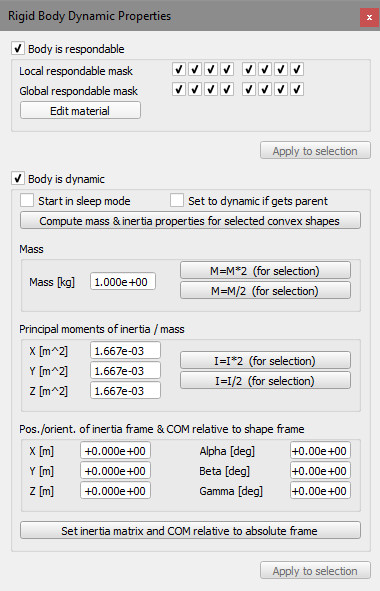
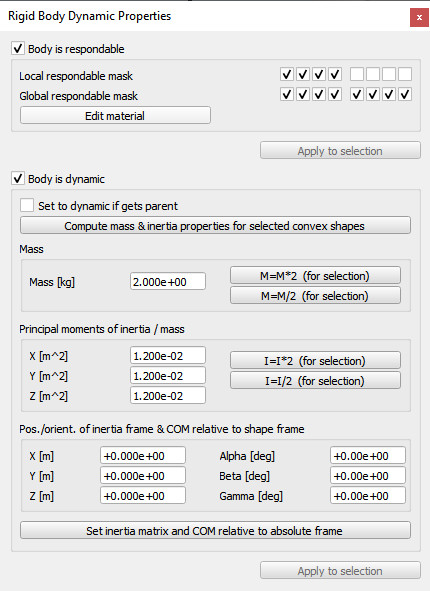
removed 'start in sleep mode', acknowledgments, etc.

diff --git a/en/acknowledgments.htm b/en/acknowledgments.htm
@@ -137,7 +137,7 @@ Eric Rohmer who is a thorough CoppeliaSim tester and an &quot;idea machine&quot;
 <li>Emanuel Eichhammer, for his <a href="http://www.customplot.com">QCustomPlot</a> used in the <a href="customUIPlugin.htm">custom UI plugin</a>. <a href="#qcustomplot">See the license</a>.</li>
 <li>Benjamin Navarro, for his code in the legacy remote API, which enables shared memory communication instead of socket communication.</li>
 
-<li>Following people for noticing bugs, reporting problems, suggesting solutions or new ideas, providing patches, code improvements, or simply helping out: Guillermo Presti, Matthias Fueller, Paul Fudal, Matthieu Lapeyre, Alberto Fanjul, Laurens Philippo, Vadim Liventsev, Kirill Makukhin, Patrick Bouffard, Pouya Mohammadi, Luca Marchionni, Barrett Ames, Arnaud Leleve, Geerten Doornenbal, Nikolaus Wittenstein, Ayberk Ozgur, Qi Wang, Giordano, Karl Robillard, Brian Yeomans, Kiyoshi Irie, Ulrich Schwesinger, Peter Mačička, Inkyu Sa, David Butterworth, Marco Cognetti, Xinyu Zhang, Jaqueline Gallardo, Serkan ÇİÇEK, Taehoon Koo, He Tao, Yusuke Ishizawa, Billy Newman, Rüdiger Dehmel, Roberto Marino, Renaud Detry, Roband, Hendrik Wiese, Matthias Schindler, George Moustris, Marco Bellaccini, Klaus Raizer, Paulo Gurgel, Stéphane Magnenat, Philipp Krüsi, Pascal Gohl, Gianpaolo Gonnelli, Felix Herrmann, Edgar Virga, Josep Tormo Costa, Gaël Ecorchard, Massimo Cefalo, Robert Lang, Marc Durvaux, Alexander Rietzler, Matt Derry, Arne Hitzmann, Sergi Foix, Daniel Morberg, Andreas Kuhner, Gerold Huber, Danilo Vasconcellos Vargas, Spencer Krause, Daniel Kuhner, Filip Jares, Luigi Ferri, Michaela Richter, Daniel Lechner, Sven Knüppel, Steve Nguyen, Jonas Sperling, Roberto Guzman, James Besancon, Andrew Vardy, Bipeen Acharya, Fred Gisa, Simon D. Levy, Leopoldo Armesto, Rodrigo Moreno Garcia, Hanna Kurniawati, Dimitri Klimenko, Joshua Mun Song,  Vinay Yadav, Thomas Estier, Matthias Imle, Rosé Rosado, Soner Ulun, Reza Mahjourian, Ben Allan, Riccardo Spica,  Giovanni Claudio, Guenter Schreiber, Antoine Rennuit, Francois Conti, Sébastien Granges, Patrick Helmer, Eva Alves Costa, Lucian Cucu, Sigurd Villumsen, Andrea Censi, Pierre Rouanet, Leander Hille, Christoph Hügle, William Harrison, Scott Drew Pendleton, Jan Dentler, Raimund Krenmüller, Anuraj Rajendraprakash, Ilya Nemihin, Ángel Luis Jiménez García, Leander Hille, Pierre Rouanet, Kenichi Hara, Ilya Nemihin, Federico Ferri, Michael Michalik, Martin Pecka, Nicola Piccinelli, Kshitij Tiwari, Victor Gomez, Parker Owan, Yuki Suga, Muhammad Umer Huzaifa, Marshall Floyd, Augusto Gandia, Pierre Jacquot, Gurvan Le Bleis, Andreu Vidal, Nicola Di Pol, Tobias Groll, Wu Xiaojun, Karol Mocniak, Ana Lucia, Ricardo Azambuja, Anto Ronson, Graeme Neff Wilson, Minson Lee, Tiago Malheiro, Andrew Hundt, Ahmed Yacine, Matthias Ploner, Indranil Sur, Sung Kyun Kim, Rik Timmers, Matthew Veres, Korolyov Alexei, Daniel Angelov, Mohammed Talha, Bartolomeo Della Corte, Scott Hissam, Mark Fink, Hao Wang, Matias Nitsche, Ndivhuwo Makondo, Yu Zhang, DeKita G. Moon, Paul Santiago Tumbaco Casa, Tobias Benz, Rodrigo Moreno Garcia, Arjun Narayanan, Sven Schweigler, Nicola Battilani, Mark Edmonds,  Benno Timmermann, Cándido Otero Moreira, Justin Yim, Allen Zhu, Leo Koppel, Ravi Prakash Joshi, Sina Radmard, Sai Vemprala, Waleed El-Badry, James Barger, Gonzalo Casas, Metehan Doyran, Arif Rahman, Jason Cachrane, Steffen Hemer, Fangyi Zhang, Filipe Rocha, virgile Daugé, Riccardo Spica, Florian Golemo, Kevin M. Lynch, Frank C. Park, Jacob Huesman, Matthew Veres, Cándido Otero, Leon Masopust, Michael Tong, Zhengxing Yang, Thomas Gurriet, Lenka Pitonakova, Hervé Frezza-Buet, Justus Rijke, Stefan Müller, Julien Lechalupe, Tristan Gahler, Robert Peck, William Jones, Benjamin Erdemann, Boris Bogaerts, Ulrich Viereck, Amdrei Florea, Catalin Buiu, Joachim Haensel, Julian Mayer, Jacob Smith, Mohsen Moradi Dalvand, Simon Birrell, Mathias Thor, Jedrzej Orbik, Liu Dong, Mark Hartenstein, Alexander Oliva, Claudio Gaz, Simon Birrell, Sahil Sharma, Adrian Schoisengeier, Rémi Lux, Kilian Freitag, Maël Hörz, Jakub Turaj, Rieky Barady, Jian Ye, Jaime Boal, Pável Axel Mc Campos Peña, Patrick Gruener, Thomas Wilmotte, Lorenzo Romanini, Johan Relefors, Pablo Bustos, Sonny Tarbouriech, Aleksander Sil, Arturs Paugurs, Wei Wei, David Page, Leopoldo Armesto, Ayush Patel, Cameron Kabacinski, Francisco Marin, Kevin Thomas, Nikita Aigner, Charles Han, Shai Levy, Bobovsky Zdenko, Salvatore Sessa, Jakob Ambsdorf, Hayato Amaike, Nathan Kocherhans, Alex Wuqi Zhang, René Simon, Yongdong Wang... We know we forgot many many people, also significant ones... please let us know!</li>
+<li>Following people for noticing bugs, reporting problems, suggesting solutions or new ideas, providing patches, code improvements, or simply helping out: Guillermo Presti, Matthias Fueller, Paul Fudal, Matthieu Lapeyre, Alberto Fanjul, Laurens Philippo, Vadim Liventsev, Kirill Makukhin, Patrick Bouffard, Pouya Mohammadi, Luca Marchionni, Barrett Ames, Arnaud Leleve, Geerten Doornenbal, Nikolaus Wittenstein, Ayberk Ozgur, Qi Wang, Giordano, Karl Robillard, Brian Yeomans, Kiyoshi Irie, Ulrich Schwesinger, Peter Mačička, Inkyu Sa, David Butterworth, Marco Cognetti, Xinyu Zhang, Jaqueline Gallardo, Serkan ÇİÇEK, Taehoon Koo, He Tao, Yusuke Ishizawa, Billy Newman, Rüdiger Dehmel, Roberto Marino, Renaud Detry, Roband, Hendrik Wiese, Matthias Schindler, George Moustris, Marco Bellaccini, Klaus Raizer, Paulo Gurgel, Stéphane Magnenat, Philipp Krüsi, Pascal Gohl, Gianpaolo Gonnelli, Felix Herrmann, Edgar Virga, Josep Tormo Costa, Gaël Ecorchard, Massimo Cefalo, Robert Lang, Marc Durvaux, Alexander Rietzler, Matt Derry, Arne Hitzmann, Sergi Foix, Daniel Morberg, Andreas Kuhner, Gerold Huber, Danilo Vasconcellos Vargas, Spencer Krause, Daniel Kuhner, Filip Jares, Luigi Ferri, Michaela Richter, Daniel Lechner, Sven Knüppel, Steve Nguyen, Jonas Sperling, Roberto Guzman, James Besancon, Andrew Vardy, Bipeen Acharya, Fred Gisa, Simon D. Levy, Leopoldo Armesto, Rodrigo Moreno Garcia, Hanna Kurniawati, Dimitri Klimenko, Joshua Mun Song,  Vinay Yadav, Thomas Estier, Matthias Imle, Rosé Rosado, Soner Ulun, Reza Mahjourian, Ben Allan, Riccardo Spica,  Giovanni Claudio, Guenter Schreiber, Antoine Rennuit, Francois Conti, Sébastien Granges, Patrick Helmer, Eva Alves Costa, Lucian Cucu, Sigurd Villumsen, Andrea Censi, Pierre Rouanet, Leander Hille, Christoph Hügle, William Harrison, Scott Drew Pendleton, Jan Dentler, Raimund Krenmüller, Anuraj Rajendraprakash, Ilya Nemihin, Ángel Luis Jiménez García, Leander Hille, Pierre Rouanet, Kenichi Hara, Ilya Nemihin, Federico Ferri, Michael Michalik, Martin Pecka, Nicola Piccinelli, Kshitij Tiwari, Victor Gomez, Parker Owan, Yuki Suga, Muhammad Umer Huzaifa, Marshall Floyd, Augusto Gandia, Pierre Jacquot, Gurvan Le Bleis, Andreu Vidal, Nicola Di Pol, Tobias Groll, Wu Xiaojun, Karol Mocniak, Ana Lucia, Ricardo Azambuja, Anto Ronson, Graeme Neff Wilson, Minson Lee, Tiago Malheiro, Andrew Hundt, Ahmed Yacine, Matthias Ploner, Indranil Sur, Sung Kyun Kim, Rik Timmers, Matthew Veres, Korolyov Alexei, Daniel Angelov, Mohammed Talha, Bartolomeo Della Corte, Scott Hissam, Mark Fink, Hao Wang, Matias Nitsche, Ndivhuwo Makondo, Yu Zhang, DeKita G. Moon, Paul Santiago Tumbaco Casa, Tobias Benz, Rodrigo Moreno Garcia, Arjun Narayanan, Sven Schweigler, Nicola Battilani, Mark Edmonds,  Benno Timmermann, Cándido Otero Moreira, Justin Yim, Allen Zhu, Leo Koppel, Ravi Prakash Joshi, Sina Radmard, Sai Vemprala, Waleed El-Badry, James Barger, Gonzalo Casas, Metehan Doyran, Arif Rahman, Jason Cachrane, Steffen Hemer, Fangyi Zhang, Filipe Rocha, virgile Daugé, Riccardo Spica, Florian Golemo, Kevin M. Lynch, Frank C. Park, Jacob Huesman, Matthew Veres, Cándido Otero, Leon Masopust, Michael Tong, Zhengxing Yang, Thomas Gurriet, Lenka Pitonakova, Hervé Frezza-Buet, Justus Rijke, Stefan Müller, Julien Lechalupe, Tristan Gahler, Robert Peck, William Jones, Benjamin Erdemann, Boris Bogaerts, Ulrich Viereck, Amdrei Florea, Catalin Buiu, Joachim Haensel, Julian Mayer, Jacob Smith, Mohsen Moradi Dalvand, Simon Birrell, Mathias Thor, Jedrzej Orbik, Liu Dong, Mark Hartenstein, Alexander Oliva, Claudio Gaz, Simon Birrell, Sahil Sharma, Adrian Schoisengeier, Rémi Lux, Kilian Freitag, Maël Hörz, Jakub Turaj, Rieky Barady, Jian Ye, Jaime Boal, Pável Axel Mc Campos Peña, Patrick Gruener, Thomas Wilmotte, Lorenzo Romanini, Johan Relefors, Pablo Bustos, Sonny Tarbouriech, Aleksander Sil, Arturs Paugurs, Wei Wei, David Page, Leopoldo Armesto, Ayush Patel, Cameron Kabacinski, Francisco Marin, Kevin Thomas, Nikita Aigner, Charles Han, Shai Levy, Bobovsky Zdenko, Salvatore Sessa, Jakob Ambsdorf, Hayato Amaike, Nathan Kocherhans, Alex Wuqi Zhang, René Simon, Yongdong Wang, Andrés Faíña... We know we forgot many many people, also significant ones... please let us know!</li>
 
 <p>
 I also wish to thank following people for the inspiration they provided in various fields through their publications, books or other means:

diff --git a/en/simUI-widgets.htm b/en/simUI-widgets.htm
@@ -2367,6 +2367,23 @@
 <tr class="spacer"><td colspan="2"></td></tr>
 <tr>
 <th>Name:</th>
+<td class="tt">decimals</td>
+</tr>
+<tr>
+<th>Type:</th>
+<td>int</td>
+</tr>
+<tr>
+<th>Default:</th>
+<td>6</td>
+</tr>
+<tr>
+<th>Description:</th>
+<td>Number of displayed decimal places.</td>
+</tr>
+<tr class="spacer"><td colspan="2"></td></tr>
+<tr>
+<th>Name:</th>
 <td class="tt">float</td>
 </tr>
 <tr>
@@ -2379,7 +2396,7 @@
 </tr>
 <tr>
 <th>Description:</th>
-<td>If true, the spinbox will display a floating point value. If false, the spinbox will display integer values. If omitted, this property will be automatically determined by minimum/maximum/step values: if any of those is not a round integer, the spinbox will be float.</td>
+<td>If true, the spinbox will display a floating point value. If false, the spinbox will display integer values. If omitted, this property will be automatically determined by minimum/maximum/step values: if any of those is not a round integer, or if decimals is specified, the spinbox will be float.</td>
 </tr>
 <tr class="spacer"><td colspan="2"></td></tr>
 <tr>

diff --git a/en/shapeDynamicsProperties.htm b/en/shapeDynamicsProperties.htm
@@ -38,9 +38,6 @@
 <li><strong>Body is dynamic</strong>: when enabled, then the shape's position and orientation will be influenced in a <a href="dynamicsModule.htm">dynamics simulation</a>. See the <a href="designingDynamicSimulations.htm">designing dynamic simulation</a> section for more details.<br>
 </li>
 
-<li><strong>Start in sleep mode</strong>: a respondable shape that is dynamically simulated can start in sleep mode, in which case it doesn't react to constraints (e.g. gravity) until it first collides with another respondable shape.<br>
-</li>
-
 <li><strong>Set to dynamic if gets parent</strong>: when enabled and the shape is attached to another object, then the shape will be automatically made dynamic. This is useful for model bases that should be static when on their own, but dynamic when combined with another model/object (e.g. a robotic manipulator that operates on its own usually has its base static, but when attached to a vehicle, then the base should become dynamic).<br>
 </li>
 

diff --git a/en/urdfPlugin.htm b/en/urdfPlugin.htm
@@ -19,7 +19,7 @@
 
 <h1>URDF importer plugin</h1>
 
-<p>The URDF  file format (*.urdf) is supported for import operations via a plugin (<em><a href="https://github.com/CoppeliaRobotics/simExtURDF" target="_blank">simExtURDF</a></em>) coutesy of Ignacio Tartavull. Next to <a href="simURDF.htm?view=alphabetical">API functions related to the URDF format</a>, the plugin also offers a GUI dialog accessible via [Menu bar --&gt; Plugins --&gt; URDF import...]:</p>
+<p>The URDF  file format (*.urdf) is supported for import operations via a plugin (<em><a href="https://github.com/CoppeliaRobotics/simExtURDF" target="_blank">simExtURDF</a></em>) coutesy of Ignacio Tartavull. Next to <a href="simURDF.htm?view=alphabetical">API functions related to the URDF format</a>, the plugin also offers a GUI dialog accessible via [Menu bar --&gt; Add-ons --&gt; URDF importer]:</p>
 <p align=center><img src="images/urdfDlg.jpg"></p>
 <p class=imageLabel>[URDF plugin dialog]</p>
 <br>

diff --git a/en/versionInfo.htm b/en/versionInfo.htm
@@ -47,7 +47,7 @@ Version history:
 <table class=subsectionTable><tr class=subsectionTd>
  <td class=subsectionTd><a name="coppeliaSim4.3.0" id="coppeliaSim4.3.0"></a>CoppeliaSim V4.3.0 (not yet released)</td></tr></table> 
  
-<li>Fixed several bugs. Thanks to Nathan Kocherhans, René Simon, Yongdong Wang and Alex Wuqi Zhang for noticing them or helping to resolve them.</li>
+<li>Fixed several bugs. Thanks to Nathan Kocherhans, René Simon, Yongdong Wang, Andrés Faíña, Eric Rohmer and Alex Wuqi Zhang for noticing them or helping to resolve them.</li>
 <li>Added an example model of a Stewart platform: <em>Models/robots/non-mobile/Stewart platform.ttm</em>.</li>
 <li>Added an example scenes of IK and obstacle avoidance: <em>Scenes/kinematics/obstacleAvoidanceAndIk.ttt</em>.</li>
 <br>
